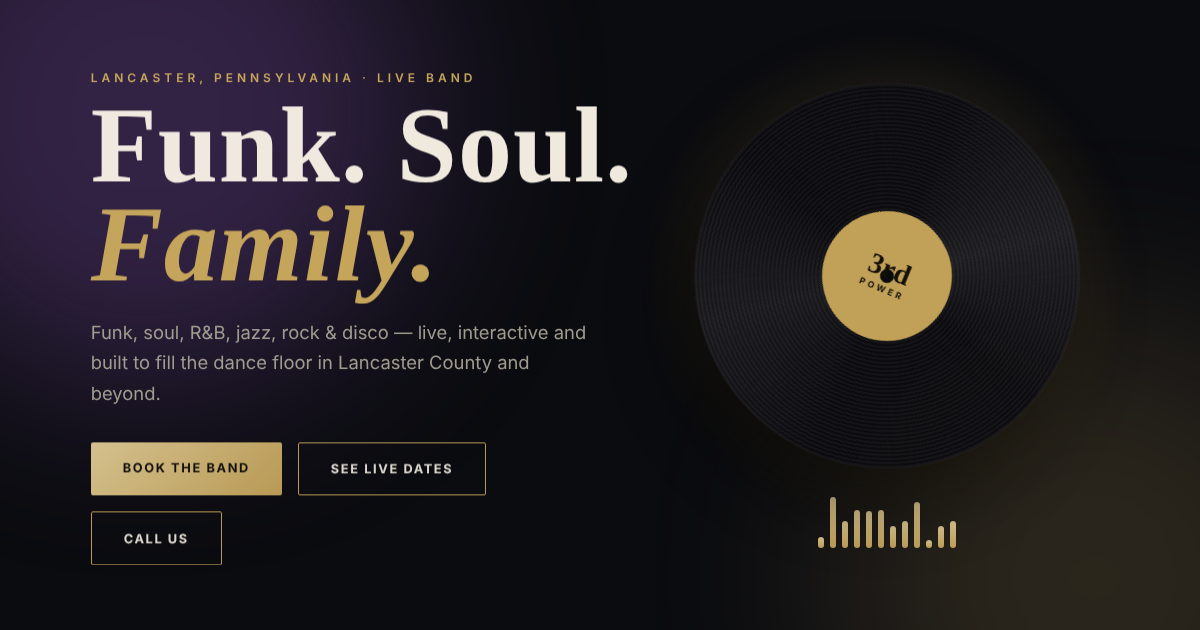
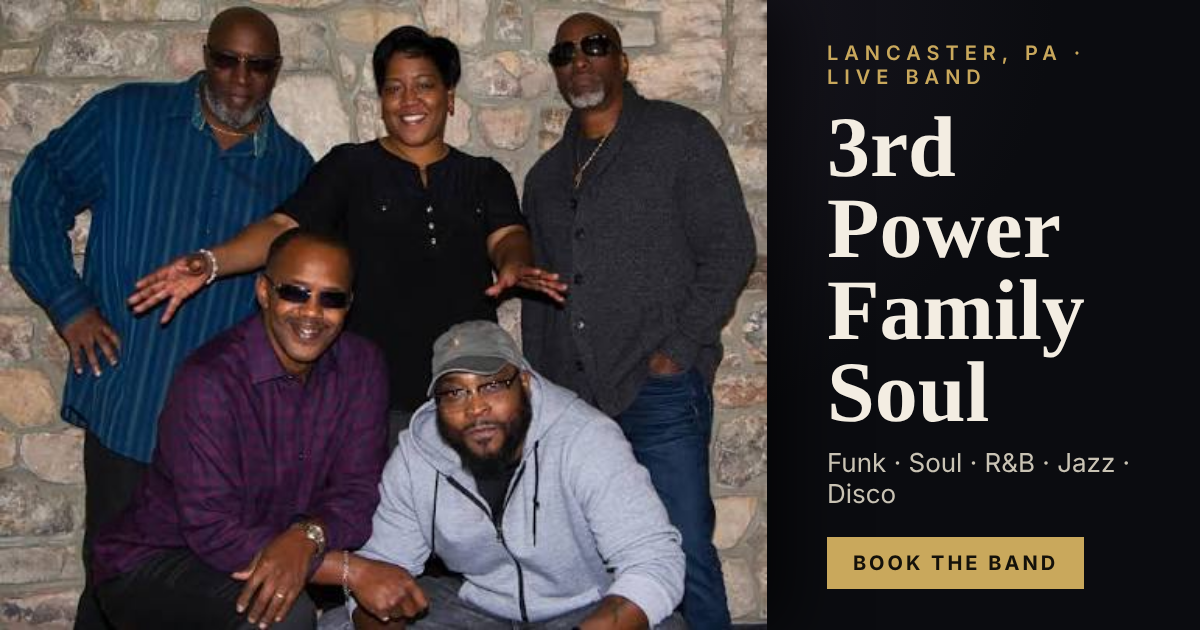
Real band photos, share image, a11y fixes (0 axe violations), security headers, 404 page, noscript fallback, follow links
Claude-Session: https://claude.ai/code/session_01Pz21qKYhQX47i4Ls3ojUer

diff --git a/script.js b/script.js
@@ -44,7 +44,7 @@
         const d = parse(s.date);
         const map = "https://www.google.com/maps/search/?api=1&query=" + encodeURIComponent(s.venue + " " + (s.city || "PA"));
         return `<article class="show-card reveal"><div class="d"><small>${MONTHS[d.getMonth()].slice(0, 3).toUpperCase()}</small><b>${d.getDate()}</b></div>
-          <div><h4>${esc(s.venue)}</h4><p>${[DAYS[d.getDay()], esc(s.time), esc(s.city), esc(s.note)].filter(Boolean).join(" · ")}</p></div>
+          <div><h3>${esc(s.venue)}</h3><p>${[DAYS[d.getDay()], esc(s.time), esc(s.city), esc(s.note)].filter(Boolean).join(" · ")}</p></div>
           <div class="show-actions"><a class="pill" href="${map}" target="_blank" rel="noopener">Directions</a><a class="pill" href="${ics(s)}" download="3rd-power-${s.date}.ics">+ Calendar</a></div></article>`;
       }).join("")
     : "<p class='sub'>New shows coming soon — follow us on Facebook for updates.</p>";
@@ -59,7 +59,7 @@
     for (let i = 0; i < first; i++) h += '<span class="day empty"></span>';
     for (let d = 1; d <= n; d++) {
       const k = key(y, m, d), st = statusOf(k);
-      h += `<button type="button" class="day ${st}${k < todayKey ? " past" : ""}${k === todayKey ? " today" : ""}${k === selected ? " sel" : ""}" data-k="${k}" ${st === "open" || st === "show" ? "" : "tabindex='-1'"} aria-label="${pretty(k)}${st ? " " + st : ""}">${d}</button>`;
+      h += `<button type="button" class="day ${st}${k < todayKey ? " past" : ""}${k === todayKey ? " today" : ""}${k === selected ? " sel" : ""}" data-k="${k}" ${k < todayKey ? "disabled" : st === "open" || st === "show" ? "" : "tabindex='-1' aria-disabled='true'"} aria-label="${pretty(k)}${st ? " " + st : ""}">${d}</button>`;
     }
     $("cal-days").innerHTML = h;
     $("prev").disabled = view.getFullYear() === today.getFullYear() && view.getMonth() === today.getMonth();
@@ -75,7 +75,6 @@
   render();
 
   // ---- sound
-  $("genres").innerHTML = B.genres.map((g) => `<span>${esc(g)}</span>`).join("");
   $("types").innerHTML = B.eventTypes.map((t, i) => `<div class="type reveal d${i % 4}"><i>${t.icon}</i><h3>${esc(t.title)}</h3><p>${esc(t.text)}</p></div>`).join("");
 
   // ---- gallery + lightbox
@@ -93,11 +92,16 @@
       b.outerHTML = `<iframe src="https://www.youtube-nocookie.com/embed/${b.dataset.id}?autoplay=1&rel=0&modestbranding=1" title="Band video" allow="accelerometer; autoplay; clipboard-write; encrypted-media; picture-in-picture; fullscreen" allowfullscreen loading="lazy"></iframe>`;
     });
   }
-  $("gallery").innerHTML = B.photos.map((p, i) => `<figure class="reveal d${i % 3}"><img loading="lazy" src="${p.src}" alt="${esc(p.alt)}"></figure>`).join("");
+  $("gallery").className = "gallery " + (B.photos.length <= 2 ? "few" : "");
+  $("gallery").innerHTML = B.photos.map((p, i) => `<figure class="reveal d${i % 3}"><img loading="lazy" src="${p.src}" alt="${esc(p.alt)}"${p.w ? ` width="${p.w}" height="${p.h}"` : ""}></figure>`).join("");
   const lb = $("lightbox");
   $("gallery").addEventListener("click", (e) => { const im = e.target.closest("img"); if (!im) return; lb.querySelector("img").src = im.src; lb.hidden = false; });
   lb.addEventListener("click", () => (lb.hidden = true));
-  document.addEventListener("keydown", (e) => e.key === "Escape" && (lb.hidden = true));
+  let lastFocus = null;
+  const closeLb = () => { lb.hidden = true; if (lastFocus) lastFocus.focus(); };
+  $("gallery").addEventListener("click", () => { lastFocus = document.activeElement; lb.querySelector("button").focus(); });
+  lb.querySelector("button").addEventListener("click", closeLb);
+  document.addEventListener("keydown", (e) => { if (e.key !== "Escape") return; if (!lb.hidden) closeLb(); if ($("menu").classList.contains("open")) document.querySelector(".menu-btn").click(); });
 
   // ---- members, faq, contact
   $("members").innerHTML = B.members.map((m, i) => `<li class="reveal d${i % 4}"><div class="avatar">${esc(m.name.trim()[0])}</div><b>${esc(m.name)}</b><span>${esc(m.role)}</span></li>`).join("");
@@ -170,6 +174,7 @@
   const qb = document.querySelector(".quickbar"), hide = new Set();
   const qio = new IntersectionObserver((es) => { es.forEach((e) => (e.isIntersecting ? hide.add(e.target.id || "f") : hide.delete(e.target.id || "f"))); qb.classList.toggle("off", hide.size > 0); }, { threshold: 0, rootMargin: "-35% 0px -35% 0px" });
   qio.observe($("book")); qio.observe(document.querySelector("footer"));
+  $("follow-fb").href = B.facebook; $("follow-yt").href = B.youtube;
   $("qtext").href = "sms:" + tel;
   const sh = document.createElement("button"); sh.className = "share"; sh.textContent = "Share this page";
   sh.onclick = async () => {

diff --git a/index.html b/index.html
@@ -15,6 +15,7 @@
   <meta name="twitter:card" content="summary_large_image">
   <link rel="canonical" href="https://3rd-power-family-soul.thetoptenfotography.workers.dev/">
   <link rel="icon" href="favicon.svg" type="image/svg+xml">
+  <link rel="apple-touch-icon" href="apple-touch-icon.png">
   <link rel="preconnect" href="https://fonts.googleapis.com"><link rel="preconnect" href="https://fonts.gstatic.com" crossorigin>
   <link href="https://fonts.googleapis.com/css2?family=Cormorant+Garamond:ital,wght@0,500;0,600;0,700;1,500&family=Inter:wght@400;500;600;700&display=swap" rel="stylesheet">
   <link rel="stylesheet" href="styles.css">
@@ -33,12 +34,13 @@
   </script>
 </head>
 <body>
-  <a class="skip" href="#shows">Skip to content</a>
+  <a class="skip" href="#top">Skip to content</a>
+  <noscript><div class="nojs">This site needs JavaScript to show the schedule. Call <a href="tel:7175985441">(717) 598-5441</a> or find 3rd Power Family Soul on <a href="https://www.facebook.com/share/1FxFtpkFde/">Facebook</a> for dates and booking.</div></noscript>
   <div class="progress" id="progress"></div>
 
   <header class="nav" id="nav">
     <a href="#top" class="logo">3rd Power <span>Family Soul</span></a>
-    <button class="menu-btn" aria-label="Menu" aria-expanded="false"><i></i><i></i></button>
+    <button class="menu-btn" aria-label="Menu" aria-controls="menu" aria-expanded="false"><i></i><i></i></button>
     <nav id="menu">
       <a href="#shows">Shows</a>
       <a href="#calendar">Open Dates</a>
@@ -48,7 +50,7 @@
     </nav>
   </header>
 
-  <main id="top">
+  <main id="top" tabindex="-1">
     <!-- HERO -->
     <section class="hero">
       <div class="glow g1"></div><div class="glow g2"></div>
@@ -82,6 +84,7 @@
     <section id="shows" class="sec wrap">
       <div class="head reveal"><p class="eyebrow">On Stage</p><h2>Catch Us Live</h2></div>
       <div id="show-list" class="show-list"></div>
+      <p class="follow reveal">Never miss a show — <a id="follow-fb" target="_blank" rel="noopener">follow us on Facebook</a> · <a id="follow-yt" target="_blank" rel="noopener">watch on YouTube</a></p>
     </section>
 
     <!-- WATCH -->
@@ -123,7 +126,6 @@
     <!-- SOUND -->
     <section id="sound" class="sec wrap">
       <div class="head reveal"><p class="eyebrow">The Sound</p><h2>Grooves You Know &amp; Love</h2></div>
-      <div class="chips reveal" id="genres"></div>
       <div class="types" id="types"></div>
     </section>
 
@@ -167,9 +169,9 @@
             <label>Details &amp; song requests<textarea name="message" rows="4" placeholder="Guest count, must-play songs, anything else..."></textarea></label>
           </div>
           <div class="step" data-step="3">
-            <label>Your name<input name="name" required></label>
-            <label>Email<input type="email" name="email" required></label>
-            <label>Phone<input type="tel" name="phone"></label>
+            <label>Your name<input name="name" autocomplete="name" required></label>
+            <label>Email<input type="email" name="email" autocomplete="email" inputmode="email" required></label>
+            <label>Phone<input type="tel" name="phone" autocomplete="tel" inputmode="tel"></label>
           </div>
           <div class="nav-btns">
             <button type="button" class="btn ghost" id="back" hidden>Back</button>
@@ -196,8 +198,8 @@
     <p class="copy">&copy; <span id="yr"></span> 3rd Power Family Soul</p>
   </footer>
 
-  <div class="quickbar"><a href="#" id="qcall" class="q">Call</a><a href="#" id="qtext" class="q">Text</a><a href="#book" class="q main">Book</a></div>
-  <div class="lightbox" id="lightbox" hidden><button aria-label="Close">&times;</button><img alt=""></div>
+  <nav class="quickbar" aria-label="Quick contact"><a href="#" id="qcall" class="q">Call</a><a href="#" id="qtext" class="q">Text</a><a href="#book" class="q main">Book</a></nav>
+  <div class="lightbox" id="lightbox" role="dialog" aria-modal="true" aria-label="Photo viewer" hidden><button aria-label="Close">&times;</button><img alt=""></div>
 
   <script src="data.js"></script>
   <script src="script.js"></script>

diff --git a/styles.css b/styles.css
@@ -87,7 +87,7 @@ h1 em{color:var(--gold);font-style:italic}
 .show-card .d{text-align:center;border-right:1px solid var(--line);padding-right:1.2rem}
 .show-card .d small{display:block;letter-spacing:3px;color:var(--gold);font-size:.7rem;font-weight:700}
 .show-card .d b{font-family:var(--serif);font-size:2.8rem;line-height:1}
-.show-card h4{margin:0;font-family:var(--serif);font-size:1.5rem}
+.show-card h3{margin:0;font-family:var(--serif);font-size:1.5rem}
 .show-card p{margin:.1rem 0 0;color:var(--mute);font-size:.9rem}
 .show-actions{display:flex;gap:.5rem;flex-wrap:wrap}
 .pill{border:1px solid var(--line);border-radius:999px;padding:.4rem .9rem;font-size:.75rem;color:var(--text);text-decoration:none;white-space:nowrap}
@@ -263,3 +263,13 @@ html{overflow-x:clip}
 .story footer{background:none;border:0;padding:.8rem 0 0;color:var(--gold);font-size:.85rem;letter-spacing:2px;text-transform:uppercase}
 section[hidden]{display:none}
 @media(max-width:860px){.videos.n2,.videos.n3{grid-template-columns:1fr}.story p{font-size:1.25rem}}
+
+.nojs{background:var(--gold);color:#14110a;padding:1rem;text-align:center;font-weight:600}.nojs a{color:#14110a}
+.follow{margin:1.6rem 0 0;color:var(--mute)}.follow a{font-weight:600;text-decoration:none}.follow a:hover{text-decoration:underline}
+.day:disabled{cursor:default;color:#8d8878;background:#ffffff05}
+.day.open:disabled,.day.show:disabled{background:#ffffff05;color:#8d8878;border:0}
+main:focus{outline:none}
+
+.gallery.few{columns:auto;display:grid;grid-template-columns:repeat(auto-fit,minmax(16rem,28rem));gap:1rem;justify-content:start}
+.gallery.few figure{margin:0}
+.gallery.few img{width:100%;height:auto;aspect-ratio:auto !important;object-fit:cover}

diff --git a/data.js b/data.js
@@ -43,7 +43,10 @@ window.BAND = {
   // PHOTOS: add real photos here. The photo section stays hidden until you do.
   // Best: one strong group photo (groupPhoto) + a few live shots (photos).
   groupPhoto: "",            // e.g. "images/band-group.jpg"
-  photos: [],                // e.g. [{ src: "images/live-1.jpg", alt: "Live at Stoner Grille" }]
+  photos: [
+    { src: "images/band-wall.jpg", alt: "The five members of 3rd Power Family Soul posing together against a stone wall", w: 493, h: 405 },
+    { src: "images/band-walking.jpg", alt: "3rd Power Family Soul walking toward the camera on a rooftop", w: 547, h: 365 }
+  ],
   // VIDEOS: paste the 11-character YouTube ID (the part after youtu.be/). Add up to 3.
   videos: [
     { id: "YeJzHs0a6GE", title: "3rd Power Family Soul — live" },
